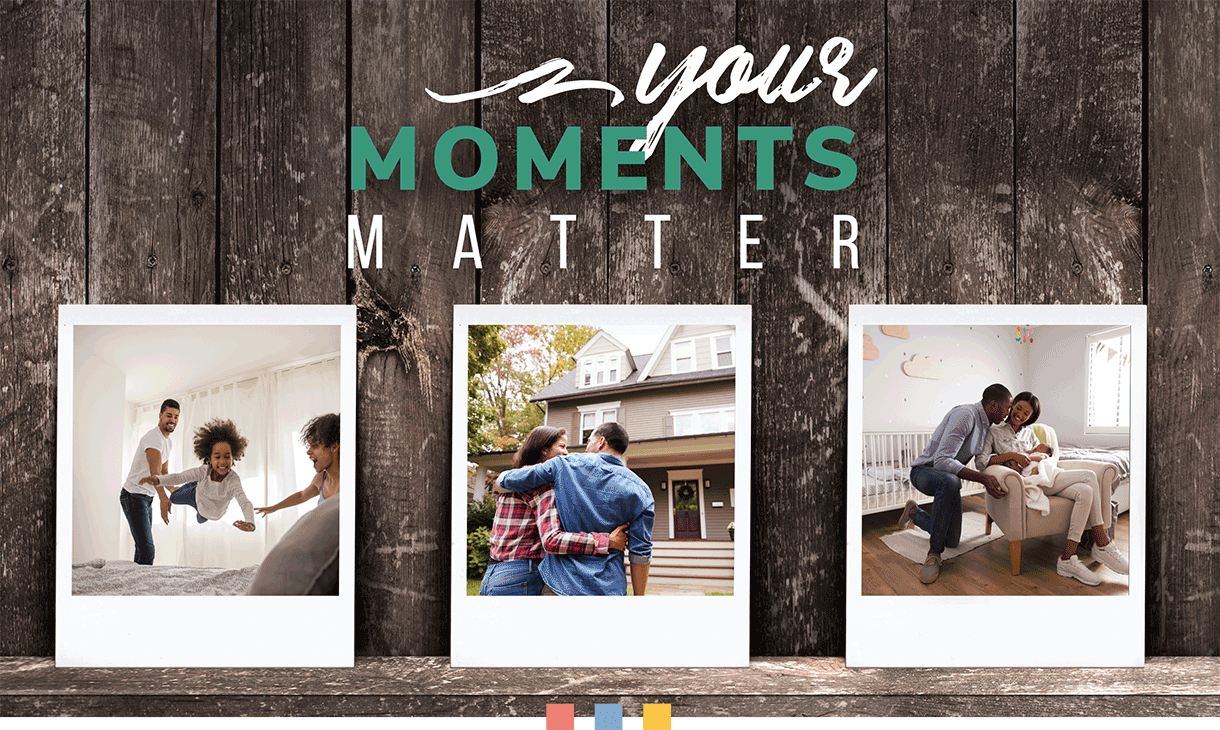
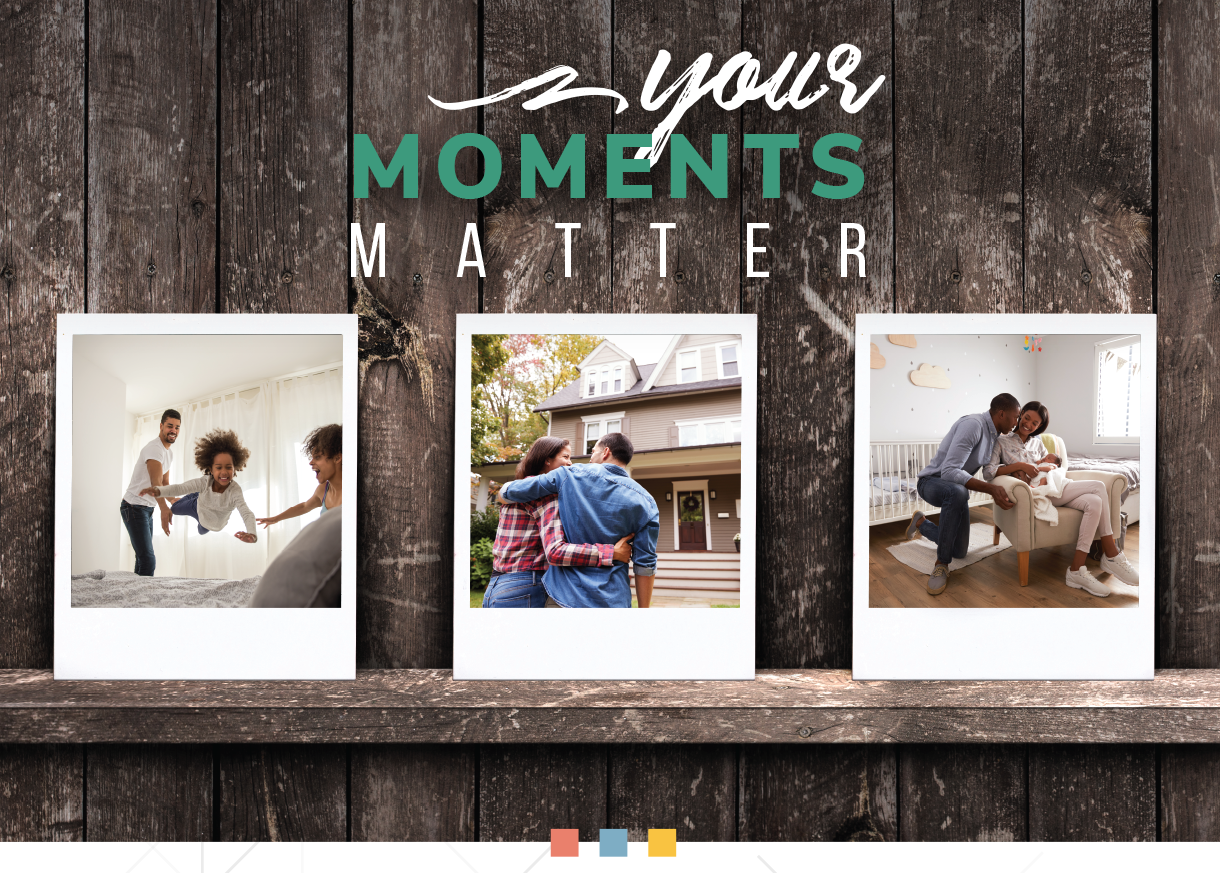
Add button in header, update header image, force cache breaks.

diff --git a/css/main.css b/css/main.css
@@ -1,1 +1,1 @@
[2 lines of base64/hex data omitted]

diff --git a/index.html b/index.html
@@ -3,7 +3,7 @@
 <head>
 	<title>Your Moments Matter | Promedica FCU</title>
 	<meta charset="utf-8">
-	<link rel="stylesheet" href="css/main.css?v=2">
+	<link rel="stylesheet" href="css/main.css?v=3">
 	<script src="js/respond.js"></script>
 	<meta name="viewport" content="width=device-width, initial-scale=1">
 	<!-- Global site tag (gtag.js) - Google Analytics -->
@@ -21,7 +21,8 @@
 	<div class="bg-container group">
 	
 	<header>
-		<a href="https://www.promedicafcu.com/" target="_blank"><img src="img/header.png" alt="Your Moments Matter"></a>
+		<a href="https://www.promedicafcu.com/" target="_blank"><img src="img/header.png?v=1" alt="Your Moments Matter" class="logo"></a>
+		<div class="button"><a href="https://app.loanspq.com/apply.aspx?enc=Kw21Wblm1yxpjJabdoZaD1rwTL2qALNi3SjzCikyDqxe0oSYC1RE6CGng1YTN8g2d5DC5OiJZqNT-NqZqpQADA" target="_blank"><img src="img/button.png" /></a></div>
 	</header>
 		
 	<div class="intro pad">

diff --git a/css/src/main.scss b/css/src/main.scss
@@ -56,6 +56,26 @@ header {
 		display: block;
 		margin: 0 auto;
 	}
+	
+	@include respond-to( 768px ) {
+		position: relative;
+
+		.logo {
+			z-index: 1;
+		}
+
+		.button {
+			z-index: 100;
+			position: relative;
+			top: -100px;
+		}
+	}
+
+	@include respond-to( 1024px ) {
+		.button {
+			top: -140px;
+		}
+	}
 }
 
 
